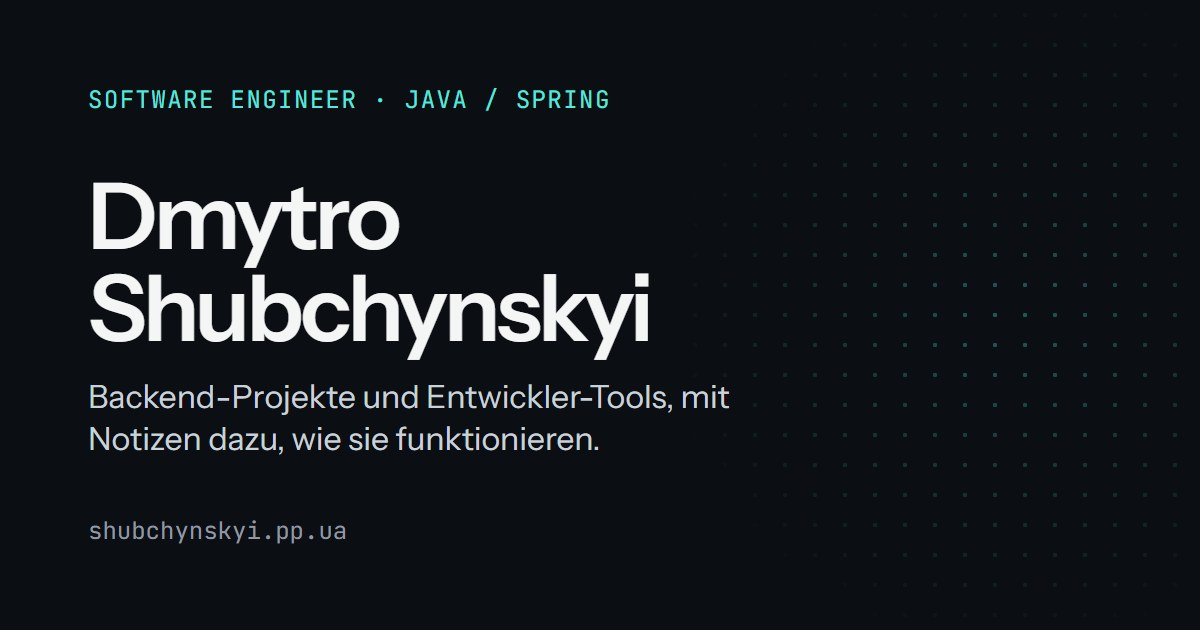
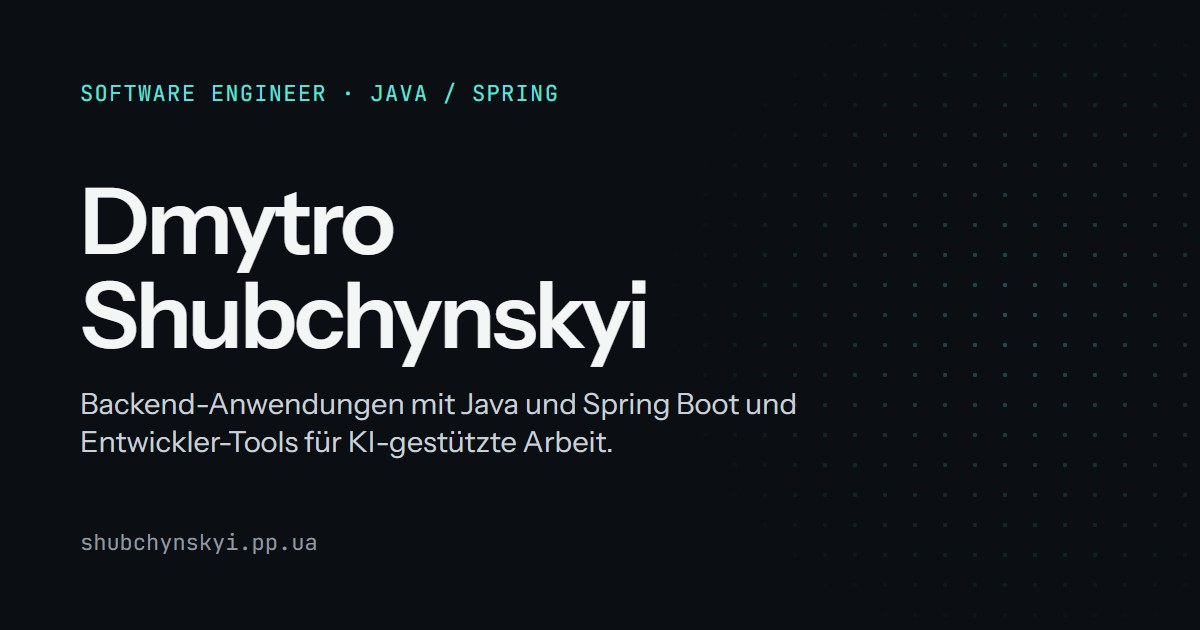
feat: case study link previews and an updated home preview subtitle

Changed region(s): [[0.0617, 0.2714, 0.6783, 0.7238], [0.0617, 0.1206, 0.5242, 0.181], [0.0617, 0.8143, 0.2775, 0.8746]]

diff --git a/de/projects/garda/index.html b/de/projects/garda/index.html
@@ -24,14 +24,15 @@
 <meta property="og:url" content="https://shubchynskyi.pp.ua/de/projects/garda/">
 <meta property="og:title" content="Garda Agent Orchestrator · Fallstudie · Dmytro Shubchynskyi">
 <meta property="og:description" content="Fallstudie: Garda Agent Orchestrator, ein Open-Source-CLI, das KI-Coding-Agenten einen kontrollierten Weg von der Aufgabe bis „fertig“ gibt, mit Pflicht-Gates, verbindlichen Reviews und Audit-Trail.">
-<meta property="og:image" content="https://shubchynskyi.pp.ua/img/og-de.jpg">
+<meta property="og:image" content="https://shubchynskyi.pp.ua/img/og-garda-de.jpg">
 <meta property="og:image:width" content="1200">
 <meta property="og:image:height" content="630">
-<meta property="og:image:alt" content="Dmytro Shubchynskyi, Software Engineer · Java / Spring">
+<meta property="og:image:alt" content="Fallstudie Garda Agent Orchestrator: eine Aufgabe in garda ui mit Gate-Zählern und bestandener Testsuite">
 <meta name="twitter:card" content="summary_large_image">
 <meta name="twitter:title" content="Garda Agent Orchestrator · Fallstudie · Dmytro Shubchynskyi">
 <meta name="twitter:description" content="Fallstudie: Garda Agent Orchestrator, ein Open-Source-CLI, das KI-Coding-Agenten einen kontrollierten Weg von der Aufgabe bis „fertig“ gibt, mit Pflicht-Gates, verbindlichen Reviews und Audit-Trail.">
-<meta name="twitter:image" content="https://shubchynskyi.pp.ua/img/og-de.jpg">
+<meta name="twitter:image" content="https://shubchynskyi.pp.ua/img/og-garda-de.jpg">
+<meta name="twitter:image:alt" content="Fallstudie Garda Agent Orchestrator: eine Aufgabe in garda ui mit Gate-Zählern und bestandener Testsuite">
 <script>(function(){try{var t=localStorage.getItem('theme');if(t==='light'||t==='dark')document.documentElement.setAttribute('data-theme',t);}catch(e){}})();</script>
 <script src="/js/site.js" defer></script>
 </head>

diff --git a/projects/garda/index.html b/projects/garda/index.html
@@ -24,14 +24,15 @@
 <meta property="og:url" content="https://shubchynskyi.pp.ua/projects/garda/">
 <meta property="og:title" content="Garda Agent Orchestrator · Case study · Dmytro Shubchynskyi">
 <meta property="og:description" content="Case study: Garda Agent Orchestrator, an open-source CLI that gives AI coding agents a governed path from task to done, with mandatory gates, required reviews and an audit trail.">
-<meta property="og:image" content="https://shubchynskyi.pp.ua/img/og-en.jpg">
+<meta property="og:image" content="https://shubchynskyi.pp.ua/img/og-garda-en.jpg">
 <meta property="og:image:width" content="1200">
 <meta property="og:image:height" content="630">
-<meta property="og:image:alt" content="Dmytro Shubchynskyi, Software Engineer · Java / Spring">
+<meta property="og:image:alt" content="Garda Agent Orchestrator case study: a garda ui task with gate counters and passed full suite">
 <meta name="twitter:card" content="summary_large_image">
 <meta name="twitter:title" content="Garda Agent Orchestrator · Case study · Dmytro Shubchynskyi">
 <meta name="twitter:description" content="Case study: Garda Agent Orchestrator, an open-source CLI that gives AI coding agents a governed path from task to done, with mandatory gates, required reviews and an audit trail.">
-<meta name="twitter:image" content="https://shubchynskyi.pp.ua/img/og-en.jpg">
+<meta name="twitter:image" content="https://shubchynskyi.pp.ua/img/og-garda-en.jpg">
+<meta name="twitter:image:alt" content="Garda Agent Orchestrator case study: a garda ui task with gate counters and passed full suite">
 <script>(function(){try{var t=localStorage.getItem('theme');if(t==='light'||t==='dark')document.documentElement.setAttribute('data-theme',t);}catch(e){}})();</script>
 <script src="/js/site.js" defer></script>
 </head>

diff --git a/de/projects/auth-service/index.html b/de/projects/auth-service/index.html
@@ -24,14 +24,15 @@
 <meta property="og:url" content="https://shubchynskyi.pp.ua/de/projects/auth-service/">
 <meta property="og:title" content="Authentication Service · Fallstudie · Dmytro Shubchynskyi">
 <meta property="og:description" content="Fallstudie: ein Authentifizierungsdienst mit Spring Boot und React, rotierenden Refresh-Tokens, Token-Familien, Rate Limiting und Integrationstests mit Testcontainers.">
-<meta property="og:image" content="https://shubchynskyi.pp.ua/img/og-de.jpg">
+<meta property="og:image" content="https://shubchynskyi.pp.ua/img/og-auth-de.jpg">
 <meta property="og:image:width" content="1200">
 <meta property="og:image:height" content="630">
-<meta property="og:image:alt" content="Dmytro Shubchynskyi, Software Engineer · Java / Spring">
+<meta property="og:image:alt" content="Fallstudie Authentication Service: Sequenzdiagramm der Refresh-Token-Rotation">
 <meta name="twitter:card" content="summary_large_image">
 <meta name="twitter:title" content="Authentication Service · Fallstudie · Dmytro Shubchynskyi">
 <meta name="twitter:description" content="Fallstudie: ein Authentifizierungsdienst mit Spring Boot und React, rotierenden Refresh-Tokens, Token-Familien, Rate Limiting und Integrationstests mit Testcontainers.">
-<meta name="twitter:image" content="https://shubchynskyi.pp.ua/img/og-de.jpg">
+<meta name="twitter:image" content="https://shubchynskyi.pp.ua/img/og-auth-de.jpg">
+<meta name="twitter:image:alt" content="Fallstudie Authentication Service: Sequenzdiagramm der Refresh-Token-Rotation">
 <script>(function(){try{var t=localStorage.getItem('theme');if(t==='light'||t==='dark')document.documentElement.setAttribute('data-theme',t);}catch(e){}})();</script>
 <script src="/js/site.js" defer></script>
 </head>

diff --git a/projects/auth-service/index.html b/projects/auth-service/index.html
@@ -24,14 +24,15 @@
 <meta property="og:url" content="https://shubchynskyi.pp.ua/projects/auth-service/">
 <meta property="og:title" content="Authentication Service · Case study · Dmytro Shubchynskyi">
 <meta property="og:description" content="Case study: a Spring Boot and React authentication service with rotating refresh tokens, token families, rate limits and Testcontainers integration tests.">
-<meta property="og:image" content="https://shubchynskyi.pp.ua/img/og-en.jpg">
+<meta property="og:image" content="https://shubchynskyi.pp.ua/img/og-auth-en.jpg">
 <meta property="og:image:width" content="1200">
 <meta property="og:image:height" content="630">
-<meta property="og:image:alt" content="Dmytro Shubchynskyi, Software Engineer · Java / Spring">
+<meta property="og:image:alt" content="Authentication Service case study: sequence diagram of refresh token rotation">
 <meta name="twitter:card" content="summary_large_image">
 <meta name="twitter:title" content="Authentication Service · Case study · Dmytro Shubchynskyi">
 <meta name="twitter:description" content="Case study: a Spring Boot and React authentication service with rotating refresh tokens, token families, rate limits and Testcontainers integration tests.">
-<meta name="twitter:image" content="https://shubchynskyi.pp.ua/img/og-en.jpg">
+<meta name="twitter:image" content="https://shubchynskyi.pp.ua/img/og-auth-en.jpg">
+<meta name="twitter:image:alt" content="Authentication Service case study: sequence diagram of refresh token rotation">
 <script>(function(){try{var t=localStorage.getItem('theme');if(t==='light'||t==='dark')document.documentElement.setAttribute('data-theme',t);}catch(e){}})();</script>
 <script src="/js/site.js" defer></script>
 </head>

diff --git a/index.html b/index.html
@@ -32,6 +32,7 @@
 <meta name="twitter:title" content="Dmytro Shubchynskyi · Software Engineer, Java / Spring">
 <meta name="twitter:description" content="Portfolio of Dmytro Shubchynskyi: backend applications with Java and Spring Boot, and developer tools for AI-assisted work.">
 <meta name="twitter:image" content="https://shubchynskyi.pp.ua/img/og-en.jpg">
+<meta name="twitter:image:alt" content="Dmytro Shubchynskyi, Software Engineer · Java / Spring">
 <script>(function(){try{var t=localStorage.getItem('theme');if(t==='light'||t==='dark')document.documentElement.setAttribute('data-theme',t);}catch(e){}})();</script>
 <script>(function(){var s=null;try{s=localStorage.getItem('lang');}catch(e){}if(s==='en')return;if(s==='de'){location.replace('/de/');return;}var l=navigator.languages&&navigator.languages.length?navigator.languages:[navigator.language||'en'];for(var i=0;i<l.length;i++){var c=String(l[i]).toLowerCase().slice(0,2);if(c==='en')return;if(c==='de'){location.replace('/de/');return;}}})();</script>
 <script type="application/ld+json">{"@context": "https://schema.org", "@type": "Person", "name": "Dmytro Shubchynskyi", "jobTitle": "Software Engineer", "url": "https://shubchynskyi.pp.ua/", "email": "mailto:d.shubchynskyi@gmail.com", "address": {"@type": "PostalAddress", "addressLocality": "Aschaffenburg", "addressCountry": "DE"}, "knowsAbout": ["Java", "Spring Boot", "Spring Security", "PostgreSQL", "Testcontainers", "AI-assisted software development"], "sameAs": ["https://github.com/Shubchynskyi", "https://www.linkedin.com/in/shubchynskyi/"]}</script>

diff --git a/de/index.html b/de/index.html
@@ -32,6 +32,7 @@
 <meta name="twitter:title" content="Dmytro Shubchynskyi · Software Engineer, Java / Spring">
 <meta name="twitter:description" content="Portfolio von Dmytro Shubchynskyi: Backend-Anwendungen mit Java und Spring Boot sowie Entwickler-Tools für KI-gestützte Arbeit.">
 <meta name="twitter:image" content="https://shubchynskyi.pp.ua/img/og-de.jpg">
+<meta name="twitter:image:alt" content="Dmytro Shubchynskyi, Software Engineer · Java / Spring">
 <script>(function(){try{var t=localStorage.getItem('theme');if(t==='light'||t==='dark')document.documentElement.setAttribute('data-theme',t);}catch(e){}})();</script>
 <script type="application/ld+json">{"@context": "https://schema.org", "@type": "Person", "name": "Dmytro Shubchynskyi", "jobTitle": "Software Engineer", "url": "https://shubchynskyi.pp.ua/de/", "email": "mailto:d.shubchynskyi@gmail.com", "address": {"@type": "PostalAddress", "addressLocality": "Aschaffenburg", "addressCountry": "DE"}, "knowsAbout": ["Java", "Spring Boot", "Spring Security", "PostgreSQL", "Testcontainers", "AI-assisted software development"], "sameAs": ["https://github.com/Shubchynskyi", "https://www.linkedin.com/in/shubchynskyi/"]}</script>
 <script src="/js/site.js" defer></script>

diff --git a/de/datenschutz/index.html b/de/datenschutz/index.html
@@ -32,6 +32,7 @@
 <meta name="twitter:title" content="Datenschutz · Dmytro Shubchynskyi">
 <meta name="twitter:description" content="Datenschutzerklärung von shubchynskyi.pp.ua: keine Cookies, keine Analyse, Server-Logfiles und Cloudflare.">
 <meta name="twitter:image" content="https://shubchynskyi.pp.ua/img/og-de.jpg">
+<meta name="twitter:image:alt" content="Dmytro Shubchynskyi, Software Engineer · Java / Spring">
 <script>(function(){try{var t=localStorage.getItem('theme');if(t==='light'||t==='dark')document.documentElement.setAttribute('data-theme',t);}catch(e){}})();</script>
 <meta name="robots" content="noindex, follow">
 <script src="/js/site.js" defer></script>

diff --git a/privacy/index.html b/privacy/index.html
@@ -32,6 +32,7 @@
 <meta name="twitter:title" content="Privacy policy · Dmytro Shubchynskyi">
 <meta name="twitter:description" content="Privacy policy for shubchynskyi.pp.ua: no cookies, no analytics, server logs and Cloudflare.">
 <meta name="twitter:image" content="https://shubchynskyi.pp.ua/img/og-en.jpg">
+<meta name="twitter:image:alt" content="Dmytro Shubchynskyi, Software Engineer · Java / Spring">
 <script>(function(){try{var t=localStorage.getItem('theme');if(t==='light'||t==='dark')document.documentElement.setAttribute('data-theme',t);}catch(e){}})();</script>
 <meta name="robots" content="noindex, follow">
 <script src="/js/site.js" defer></script>

diff --git a/legal-notice/index.html b/legal-notice/index.html
@@ -32,6 +32,7 @@
 <meta name="twitter:title" content="Legal notice · Dmytro Shubchynskyi">
 <meta name="twitter:description" content="Legal notice for shubchynskyi.pp.ua.">
 <meta name="twitter:image" content="https://shubchynskyi.pp.ua/img/og-en.jpg">
+<meta name="twitter:image:alt" content="Dmytro Shubchynskyi, Software Engineer · Java / Spring">
 <script>(function(){try{var t=localStorage.getItem('theme');if(t==='light'||t==='dark')document.documentElement.setAttribute('data-theme',t);}catch(e){}})();</script>
 <meta name="robots" content="noindex, follow">
 <script src="/js/site.js" defer></script>

diff --git a/de/impressum/index.html b/de/impressum/index.html
@@ -32,6 +32,7 @@
 <meta name="twitter:title" content="Impressum · Dmytro Shubchynskyi">
 <meta name="twitter:description" content="Impressum von shubchynskyi.pp.ua.">
 <meta name="twitter:image" content="https://shubchynskyi.pp.ua/img/og-de.jpg">
+<meta name="twitter:image:alt" content="Dmytro Shubchynskyi, Software Engineer · Java / Spring">
 <script>(function(){try{var t=localStorage.getItem('theme');if(t==='light'||t==='dark')document.documentElement.setAttribute('data-theme',t);}catch(e){}})();</script>
 <meta name="robots" content="noindex, follow">
 <script src="/js/site.js" defer></script>
